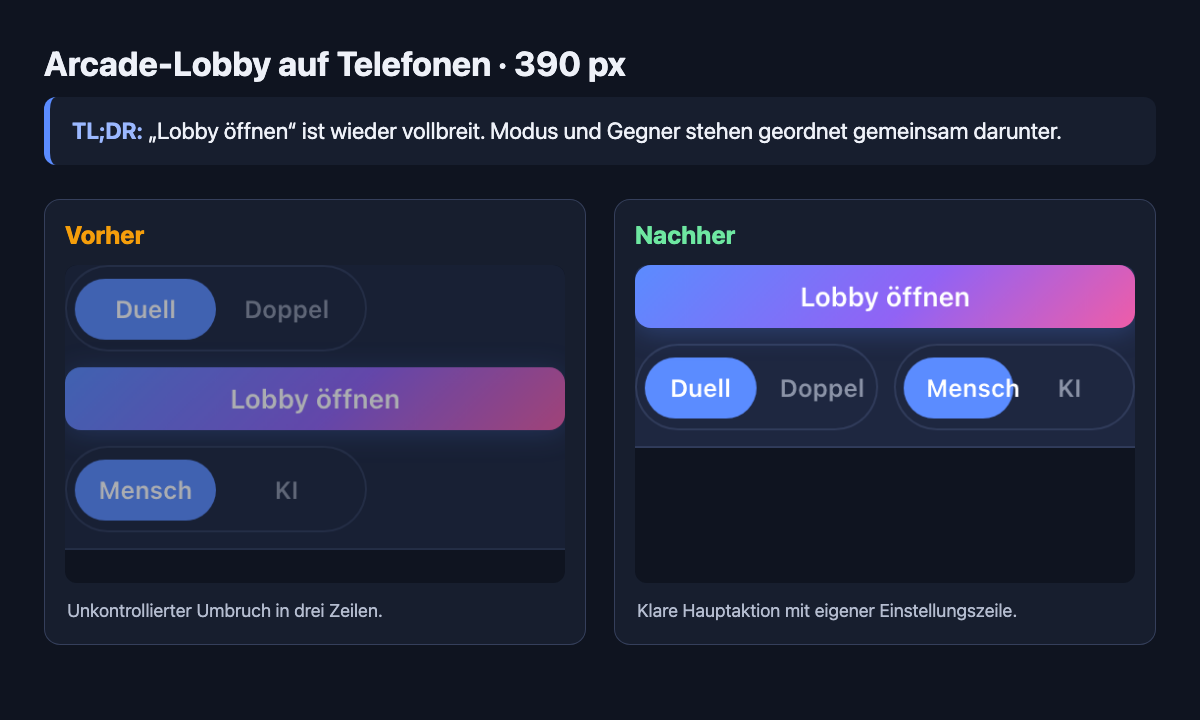
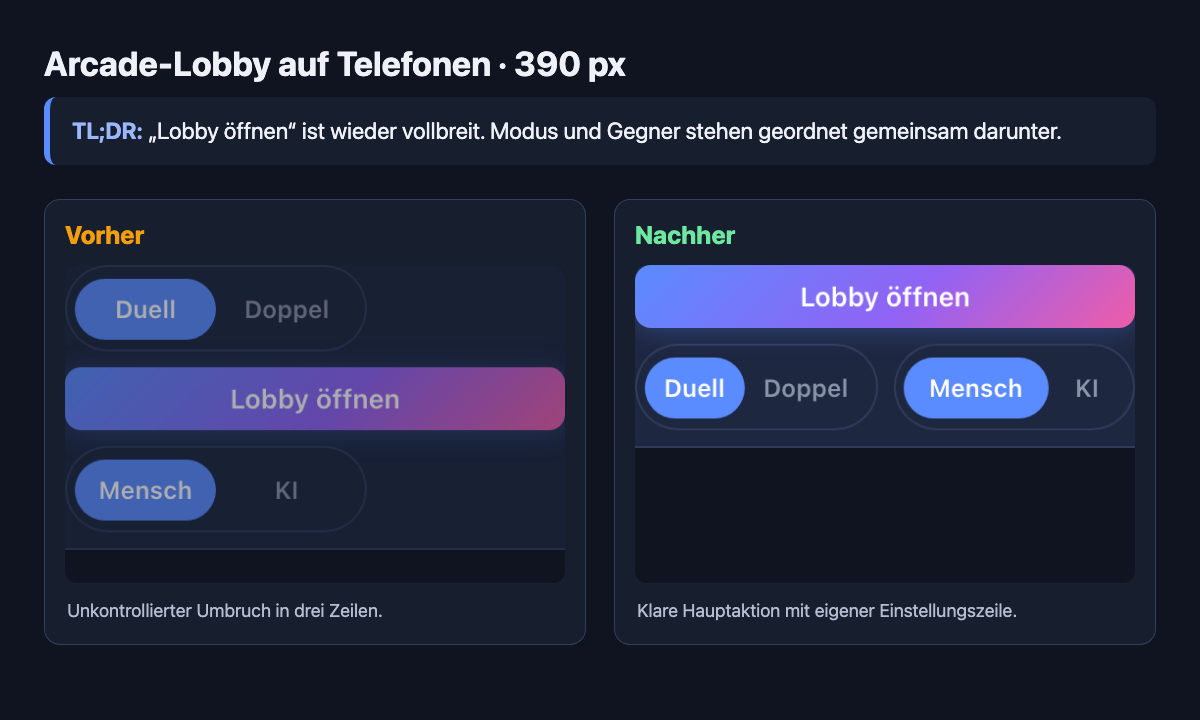
Prevent mobile Arcade label overflow

Changed region(s): [[0.555, 0.4889, 0.74, 0.5806], [0.7708, 0.4889, 0.925, 0.5806]]

diff --git a/server/src/test/e2e/authGateArcade.e2e.test.ts b/server/src/test/e2e/authGateArcade.e2e.test.ts
@@ -127,6 +127,12 @@ test('an admin sees test settings only after activation while Challenge Rush rem
         assert.ok(layout.create.bottom < layout.mode.top, 'the phone create action sits above the settings row');
         assert.equal(layout.mode.top, layout.opponent.top, 'phone mode and opponent settings share one row');
         assert.ok(layout.mode.left < layout.opponent.left, 'phone settings keep mode before opponent');
+        const overflowingLabels = await adminPage.locator('.arcade-mode-toggle-btn').evaluateAll((buttons) =>
+          buttons
+            .filter((button) => button.scrollWidth > button.clientWidth)
+            .map((button) => button.textContent?.trim()),
+        );
+        assert.deepEqual(overflowingLabels, [], 'phone setting labels stay inside their segments');
       } else {
         assert.ok(
           Math.abs(layout.mode.top + layout.mode.bottom - layout.create.top - layout.create.bottom) <= 1,

diff --git a/server/public/css/arcade.css b/server/public/css/arcade.css
@@ -248,11 +248,11 @@
   background: var(--bg-elevated-2);
 }
 .arcade-mode-toggle-btn {
-  flex: 1 1 0;
+  flex: 1 1 auto;
   min-width: 0;
   border: none;
   border-radius: var(--radius-full);
-  padding: var(--space-2) var(--space-3);
+  padding: var(--space-2);
   font-size: var(--font-size-xs);
   font-weight: var(--font-weight-medium);
   color: var(--text-muted);
@@ -297,6 +297,11 @@
 @media (min-width: 640px) { /* --bp-md */
   .arcade-mode-toggle {
     width: var(--arcade-lobby-mode-toggle-width);
+  }
+  .arcade-mode-toggle-btn {
+    flex-basis: 0;
+    padding-right: var(--space-3);
+    padding-left: var(--space-3);
   }
   .arcade-lobby-create-row > .btn {
     width: auto;

diff --git a/server/DESIGN_SYSTEM.md b/server/DESIGN_SYSTEM.md
@@ -1105,7 +1105,8 @@ Components are plain CSS classes (no JS component library) in `style.css`:
   get reserves its width anyway (`.arcade-lobby-create-row--no-mode` /
   `--no-opponent`), so from `--bp-md` „Lobby öffnen“ keeps one width and equal left and right
   insets across every game. On phones the primary action forms the full-width first row. The mode
-  and opponent switches form the second row in that order and split its available width evenly.
+  and opponent switches form the second row in that order and split its available width evenly;
+  every label stays inside its segment.
   Tetris, Pong, Snake and
   Blobby Volley all select Duell by default. A disabled „Lobby
   öffnen“ or „Start“ carries the same red `.info-tooltip-trigger--warning` reason pattern as Team
